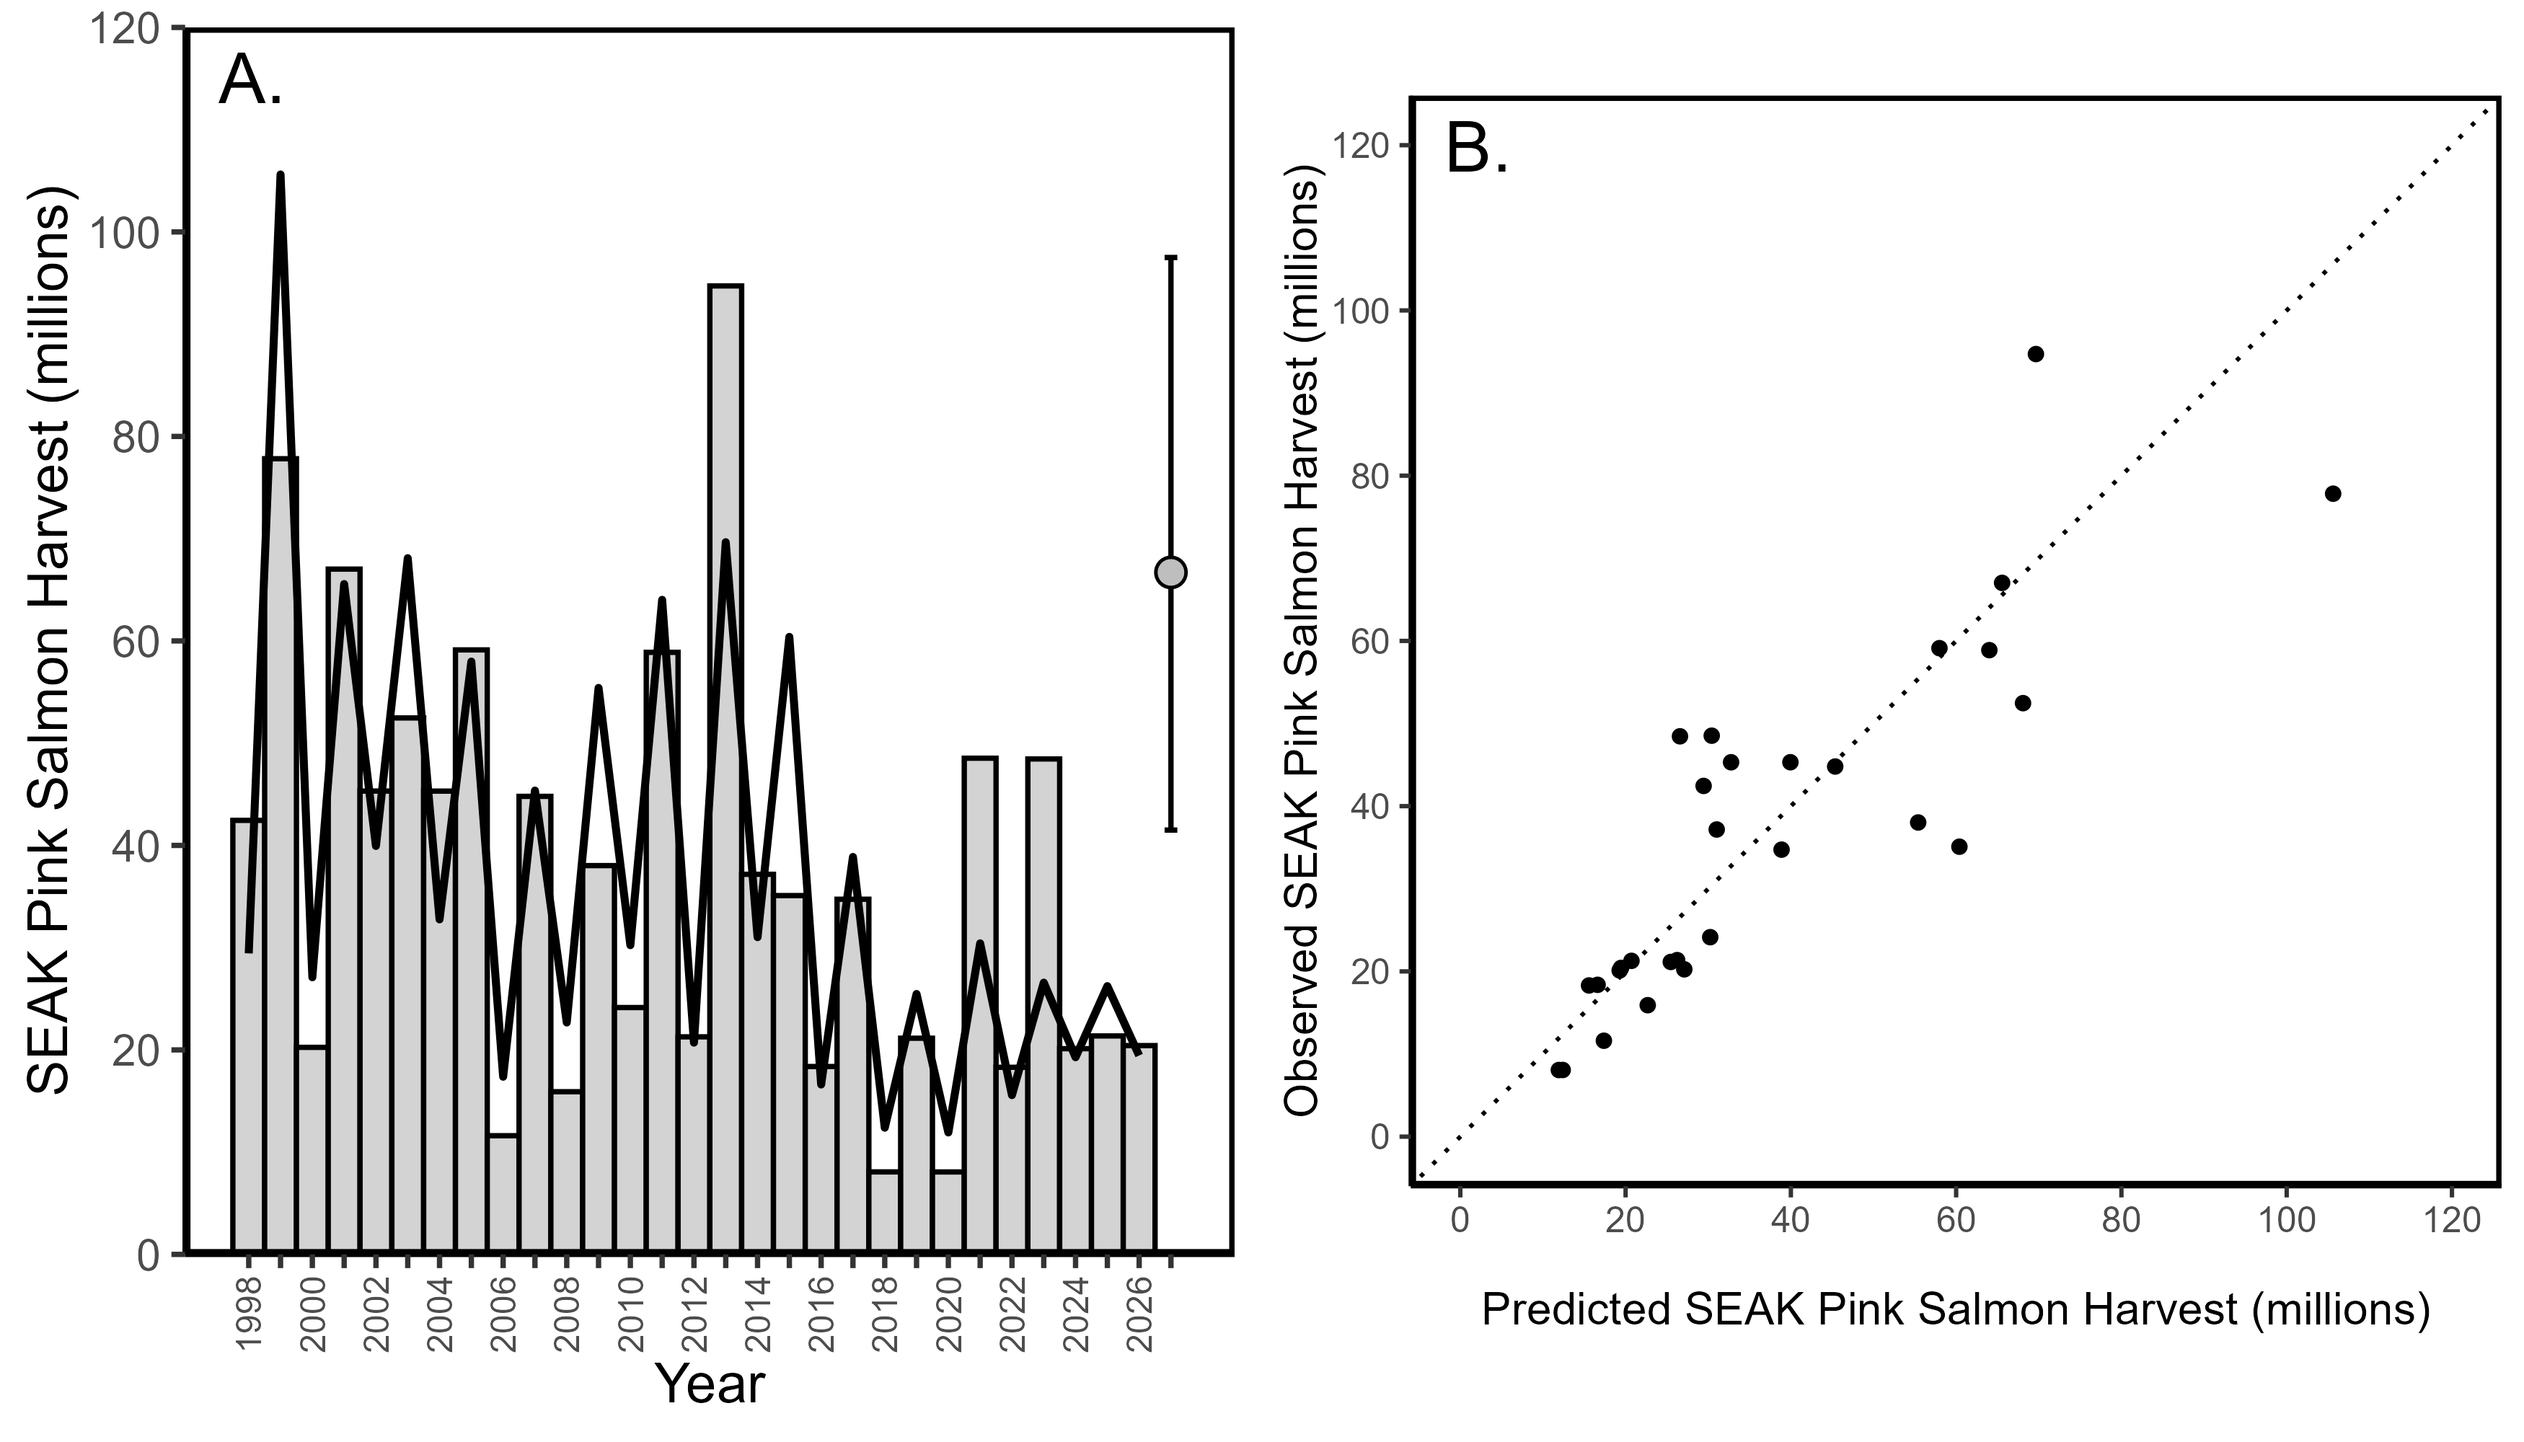
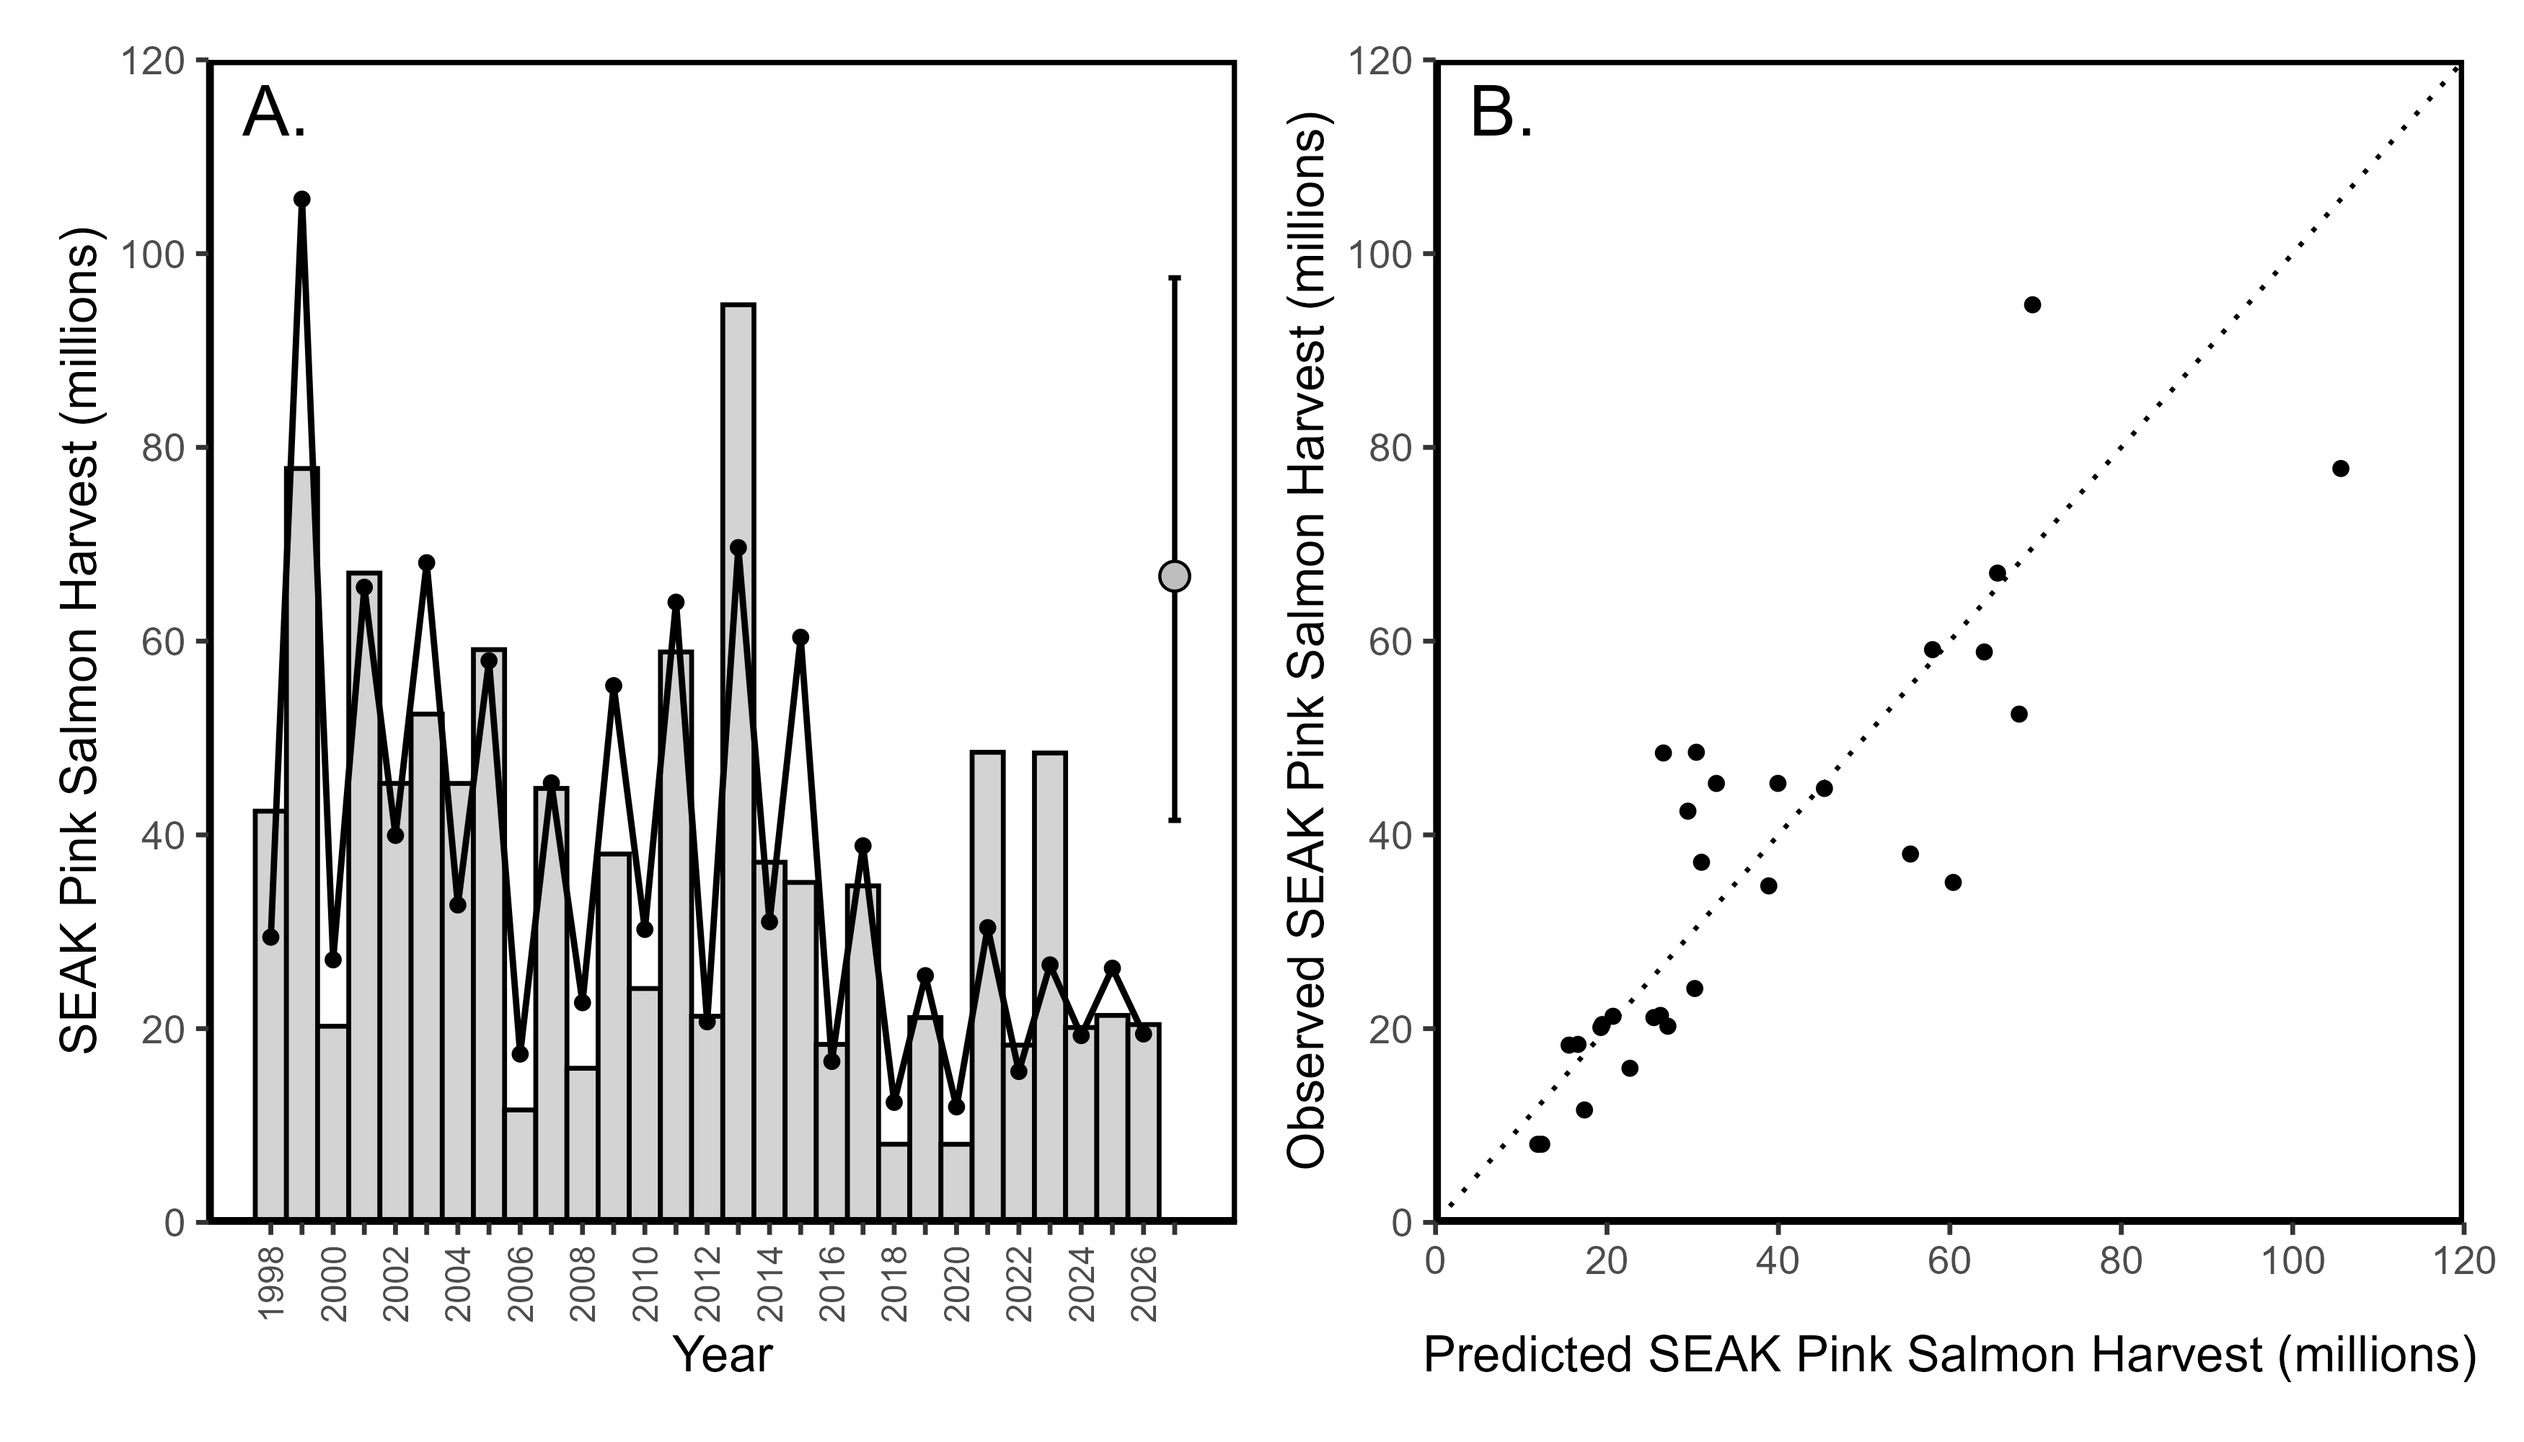
update

diff --git a/README.md b/README.md
@@ -6,6 +6,7 @@
 * Andy Piston (ADF&G; CF Salmon Research Supervisor) andrew.piston@alaska.gov
 * Wes Strasburger (NOAA; biologist) wes.strasburger@noaa.gov
 * Randy Peterson (ADF&G, biologist) randy.peterson@adfg.gov
+* Justin Priest (ADF&G, biologist) justin.priest@adfg.gov
 
 ## Assessment links:
 The current assessment follows Miller et al. 2022.
